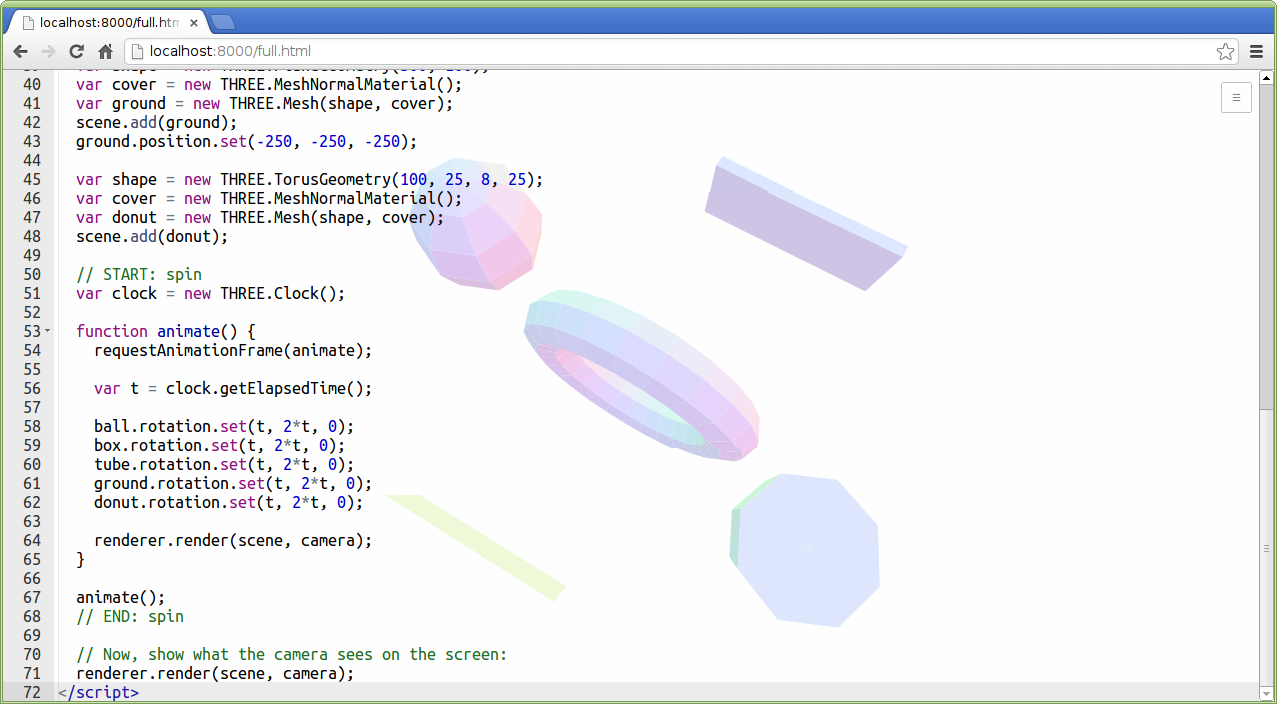
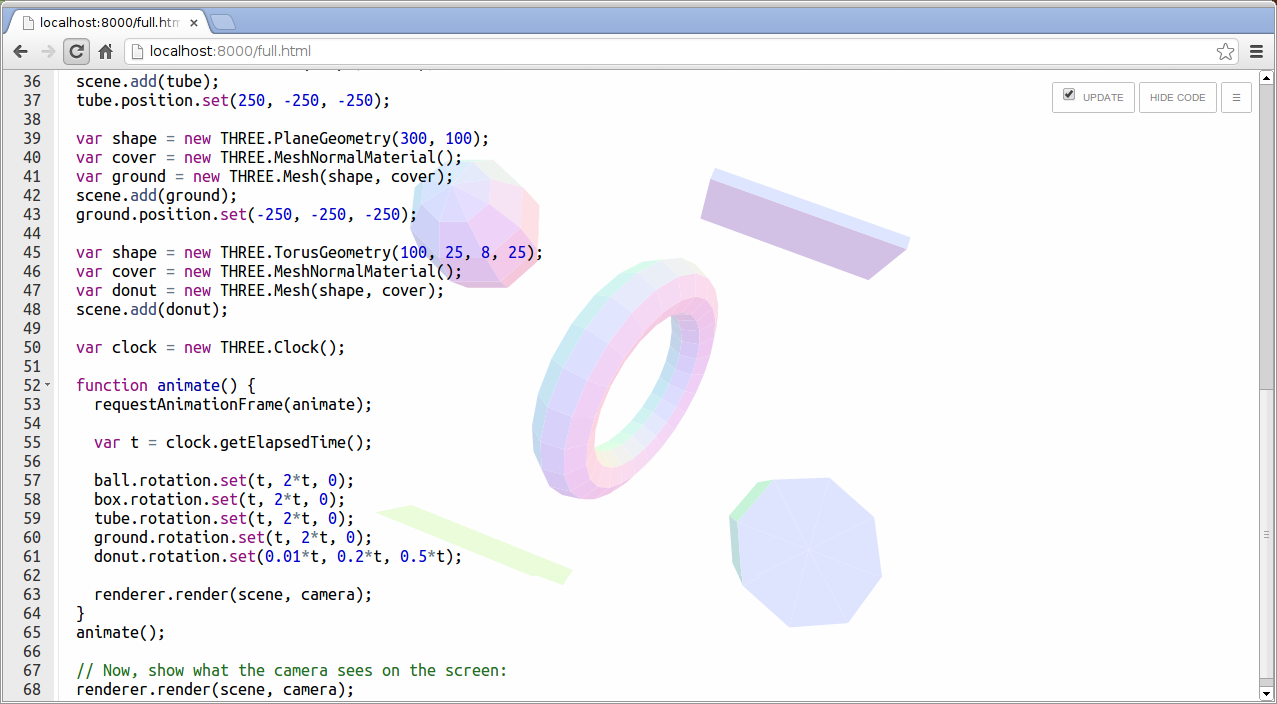
Update outstanding work

diff --git a/README.md b/README.md
@@ -14,7 +14,7 @@ The example app contained in `example` is a simple Dart web server. From the `ex
 
 ## Features
 
- * Update button — (33% done, needs auto-update feature)
+ * Update button — (60% done, needs toggle auto-update feature)
  * Hide Code button — hides code (0% done)
  * Main Menu button
    * Open (90% done, needs CSS work)
